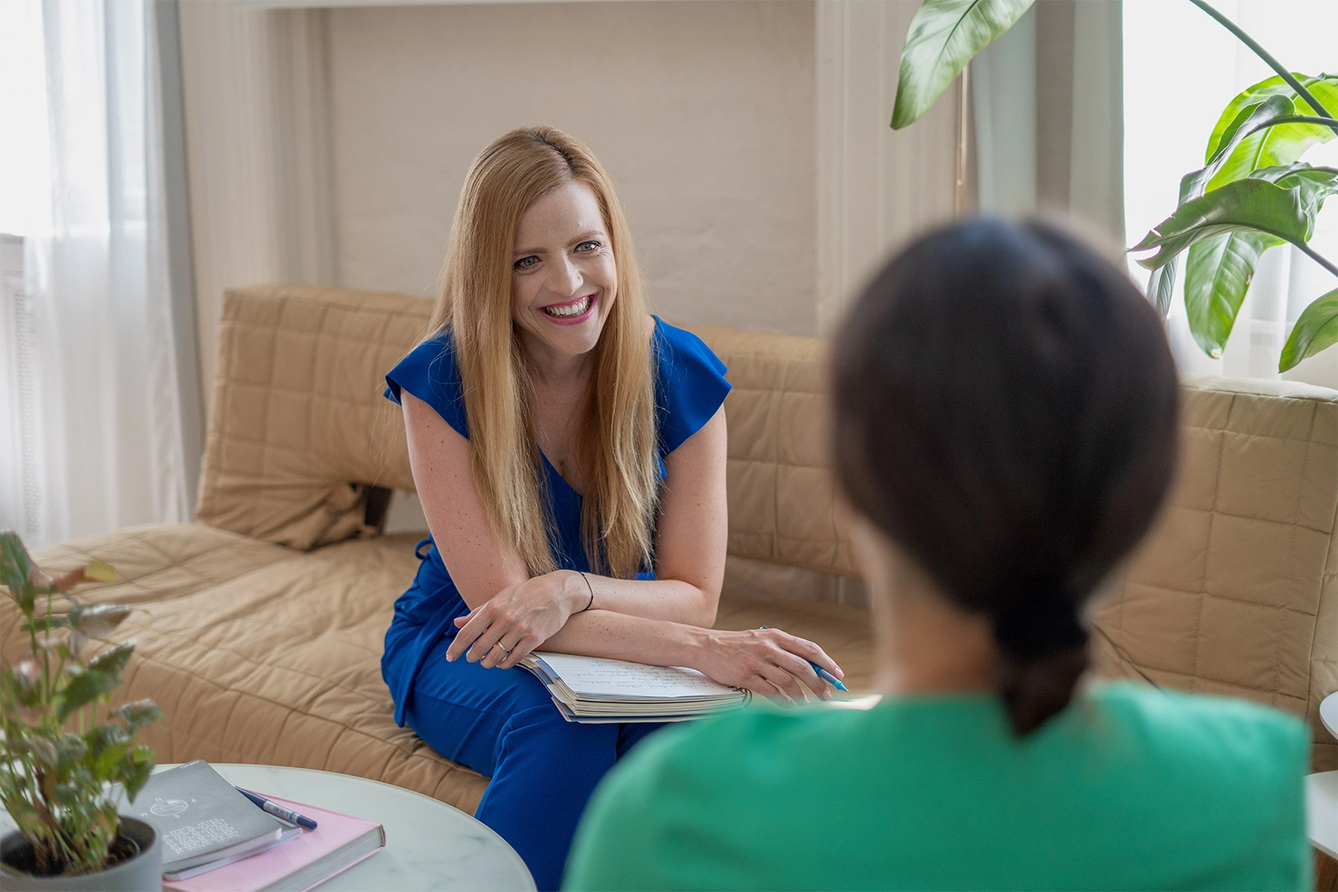
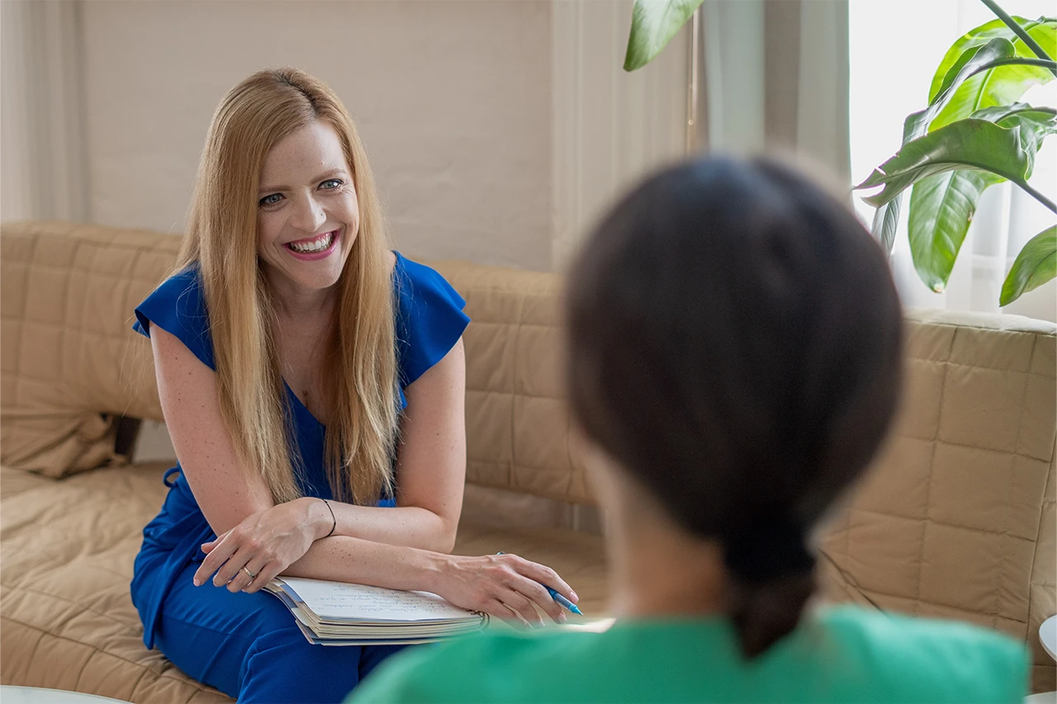
bigupdate-3

diff --git a/components/coachingReferences.jsx b/components/coachingReferences.jsx
@@ -41,19 +41,19 @@ export default function Coachingreferences() {
               }}
           >
             <SwiperSlide>
-              <Coachingreferencetile image={'/referenciak/bencze-mariann.webp'} name={'Bencze Mariann'} from={'Head of Culture, Engagement and DEIB, Adverity (Bécs, Ausztria)'} comment={'Éva nemcsak magasan képzett szakember, de a nyitottság, érzelmi intelligencia és empatikus hozzáállás kombinációjával is rendelkezik. Az általa teremtett biztonságos és elfogadó légkör lehetővé tette számomra, hogy szabadon felfedezzem gondolataimat, félelmeimet és törekvéseimet.Úgy érzem, hogy Éva hatása messze túlmutat a coaching keretein. Őszinte szenvedélye mások támogatása iránt igazán különlegessé teszi: veleszületett képessége van ügyfelei motiválására, inspirálására és önbizalmuk erősítésére.'}/>
+              <Coachingreferencetile image={'/referenciak/bencze-mariann.webp'} name={'Bencze Mariann'} from={'Head of Culture, Engagement and DEIB, Adverity (Bécs, Ausztria)'} comment={'<p>Éva nemcsak magasan képzett szakember, de a nyitottság, érzelmi intelligencia és empatikus hozzáállás kombinációjával is rendelkezik. Az általa teremtett biztonságos és elfogadó légkör lehetővé tette számomra, hogy szabadon felfedezzem gondolataimat, félelmeimet és törekvéseimet.</p><p>Úgy érzem, hogy Éva hatása messze túlmutat a coaching keretein. Őszinte szenvedélye mások támogatása iránt igazán különlegessé teszi: veleszületett képessége van ügyfelei motiválására, inspirálására és önbizalmuk erősítésére.</p>'}/>
             </SwiperSlide>
             <SwiperSlide>
-              <Coachingreferencetile image={'/referenciak/kiss-imre.webp'} name={'Kiss Imre'} from={'Consumer Insights Manager, Kia Europe (Frankfurt, Németország)'} comment={'Szakmai kihívásokkal kerestem meg Évát, és ő beleegyezett, hogy együtt dolgozzon velem ezeken. Hozzáállását az én igényeimre szabta, és úgy hámozta le a problémáim különböző rétegeit, mint a hagymát. Amit először a fő problémáimnak tartottam, azokról jól irányzott kérdései által kiderült, hogy egy mélyebb dolog tünetei csupán.Összességében csak ajánlani tudom az Évával való együttműködést. Empatikus, profi, intelligens és nagyon leegyszerűsítve remek beszélgetőpartner.'}/>
+              <Coachingreferencetile image={'/referenciak/kiss-imre.webp'} name={'Kiss Imre'} from={'Consumer Insights Manager, Kia Europe (Frankfurt, Németország)'} comment={'<p>Szakmai kihívásokkal kerestem meg Évát, és ő beleegyezett, hogy együtt dolgozzon velem ezeken. Hozzáállását az én igényeimre szabta, és úgy hámozta le a problémáim különböző rétegeit, mint a hagymát. Amit először a fő problémáimnak tartottam, azokról jól irányzott kérdései által kiderült, hogy egy mélyebb dolog tünetei csupán.</p><p>Összességében csak ajánlani tudom az Évával való együttműködést. Empatikus, profi, intelligens és nagyon leegyszerűsítve remek beszélgetőpartner.</p>'}/>
             </SwiperSlide>
             <SwiperSlide>
-              <Coachingreferencetile image={'/referenciak/pecsi-anita.webp'} name={'Pécsi Anita'} from={'Digitális Termékmenedzser, Paramount Group'} comment={'A coaching folyamat kezdetekor elakadva éreztem magam a karrieremben, alacsony volt a szakmai önbizalmam, nem tudtam, merre és hogyan haladjak tovább. Ehhez képest a közös munkánk végére, Éva sok gondolatébresztő kérdésének és az alkalmak közötti “házi feladatoknak” köszönhetően rengeteg új ötletem született. Visszanyertem a szakmai magabiztosságom, melynek segítségével képes vagyok tovább alakítani a karrieremet, és ezért végtelenül hálás vagyok.'}/>
+              <Coachingreferencetile image={'/referenciak/pecsi-anita.webp'} name={'Pécsi Anita'} from={'Digitális Termékmenedzser, Paramount Group'} comment={'<p>A coaching folyamat kezdetekor elakadva éreztem magam a karrieremben, alacsony volt a szakmai önbizalmam, nem tudtam, merre és hogyan haladjak tovább. </p><p>Ehhez képest a közös munkánk végére, Éva sok gondolatébresztő kérdésének és az alkalmak közötti “házi feladatoknak” köszönhetően rengeteg új ötletem született. </p><p>Visszanyertem a szakmai magabiztosságom, melynek segítségével képes vagyok tovább alakítani a karrieremet, és ezért végtelenül hálás vagyok.</p>'}/>
             </SwiperSlide>
             <SwiperSlide>
               <Coachingreferencetile image={'/referenciak/szabo-domokos.webp'} name={'Szabó Domokos'} from={'Group Wholesale Director, Vanguards - divatipari cégcsoport'} comment={'Évával gyorsan egymásra hangolódtunk és gördülékeny volt a közös munka. Az tetszett legjobban, hogy a kitűzött célok megoldását segített végig szem előtt tartani és proaktívan visszamérni, ezáltal fontos felismerésekre jutottam a saját szükségleteimmel kapcsolatban.'}/>
             </SwiperSlide>
             <SwiperSlide>
-              <Coachingreferencetile image={'/referenciak/varga-zsuzsa.webp'} name={'Varga Zsuzsa'} from={'Business Development Director CEE, Terrytory Influence (Bertelsmann Group)'} comment={'Éva életem egy nagyon nehéz időszakában lett a coach-om, amikor sokat tudott segíteni stabil pontjaim megtalálásában. Jó meglátásai és alapos kérdései segítettek új megvilágításba helyezni a dolgokat és új nézőpontokat találni. Gyorsan megértette az üzleti és szakmai helyzetemet, és segített a gyakorlati cselekvési pontok megfogalmazásában. Mindez a szakértelem párosul fantasztikus, kedves és nagyon támogató személyiségével. Azóta is hálás vagyok neki a folyamatokért, amiket elindított bennem.'}/>
+              <Coachingreferencetile image={'/referenciak/varga-zsuzsa.webp'} name={'Varga Zsuzsa'} from={'Business Development Director CEE, Terrytory Influence (Bertelsmann Group)'} comment={'<p>Éva életem egy nagyon nehéz időszakában lett a coach-om, amikor sokat tudott segíteni stabil pontjaim megtalálásában. Jó meglátásai és alapos kérdései segítettek új megvilágításba helyezni a dolgokat és új nézőpontokat találni. </p><p>Gyorsan megértette az üzleti és szakmai helyzetemet, és segített a gyakorlati cselekvési pontok megfogalmazásában. Mindez a szakértelem párosul fantasztikus, kedves és nagyon támogató személyiségével. Azóta is hálás vagyok neki a folyamatokért, amiket elindított bennem.</p>'}/>
             </SwiperSlide>
             <SwiperSlide>
               <Coachingreferencetile image={'/referenciak/sopov-kata.webp'} name={'Sopov Kata'} from={'Innovációs menedzser, Adaptive Media'} comment={'Évával nagyon hamar megtaláltuk a közös hangot. Rögtön értette, amiről beszélek, nem voltak fölösleges körök. Sokat segített abban, hogy ne csak a konkrét problémákkal foglalkozzak, hanem a gondolkodásmódomat is meg tudjam változtatni.'}/>
@@ -62,10 +62,10 @@ export default function Coachingreferences() {
               <Coachingreferencetile image={'/referenciak/jankovics-diana.webp'} name={'Jankovics Diána'} from={'Key Account Manager, Lindt Magyarország'} comment={'Élveztem Évával a közös munkát. Figyelmes és hatékony kérdésekkel segített a saját céljaim megfogalmazásában. Mindig felkészült és a közösen kitűzött célt tartotta szem előtt. Szívesen vettem részt minden alkalmon, mert kellemes légkör várt rám.'}/>
             </SwiperSlide>
             <SwiperSlide>
-              <Coachingreferencetile image={'/referenciak/somkovi-bernadett.webp'} name={'Somkövi Bernadett'} from={'nyelvtanár, tréner'} comment={'Szerettem, hogy Éva teret adott a kusza problémagombolyagom gomolygásának, hogy aztán egy jól irányzott kérdés hatására egyértelművé váljon számomra a főszál és a saját megoldásom felé indulhassak el. Jólesett, hogy biztonságban érezhettem magam mellette, hogy felelősségben tartott és hogy szakmai és emberi tudott lenni egyszerre.'}/>
+              <Coachingreferencetile image={'/referenciak/somkovi-bernadett.webp'} name={'Somkövi Bernadett'} from={'nyelvtanár, tréner'} comment={'<p>Szerettem, hogy Éva teret adott a kusza problémagombolyagom gomolygásának, hogy aztán egy jól irányzott kérdés hatására egyértelművé váljon számomra a főszál és a saját megoldásom felé indulhassak el. </p><p>Jólesett, hogy biztonságban érezhettem magam mellette, hogy felelősségben tartott és hogy szakmai és emberi tudott lenni egyszerre.</p>'}/>
             </SwiperSlide>
             <SwiperSlide>
-              <Coachingreferencetile image={'/referenciak/blankprofile.webp'} name={'Dobos Kata'} from={'szakfordító és tolmács'} comment={'Évával öröm volt együttműködni. Minden alkalomra felkészülten érkezett, együtt mértük fel és határoztuk meg a fejlesztendő területeimet, melyeket segített fókuszba helyezni és konkretizálni. Végig jó szakemberként funkcionált, semleges tudott maradni és kívülről szemlélni a dolgokat, sosem "okoskodott bele" semmibe, nem próbálta megmondani a "tutit", hanem mellettem állva, velem együtt haladva segített eljutni a cél felé. Jó kérdéseket tett fel, melyek sokszor elgondolkodtattak, további elmélkedésre ösztönöztek, nekem is kellett dolgoznom magamon. Számomra mindig nagyon megnyugtató volt vele beszélgetni, megnyílhattam neki. Higgadt, empatikus személyisége és jó meglátásai miatt abszolút jó coach-nak tartom.'}/>
+              <Coachingreferencetile image={'/referenciak/blankprofile.webp'} name={'Dobos Kata'} from={'szakfordító és tolmács'} comment={'<p>Évával öröm volt együttműködni. Minden alkalomra felkészülten érkezett, együtt mértük fel és határoztuk meg a fejlesztendő területeimet, melyeket segített fókuszba helyezni és konkretizálni. </p><p>Végig jó szakemberként funkcionált, semleges tudott maradni és kívülről szemlélni a dolgokat, sosem "okoskodott bele" semmibe, nem próbálta megmondani a "tutit", hanem mellettem állva, velem együtt haladva segített eljutni a cél felé. </p><p>Jó kérdéseket tett fel, melyek sokszor elgondolkodtattak, további elmélkedésre ösztönöztek, nekem is kellett dolgoznom magamon. Számomra mindig nagyon megnyugtató volt vele beszélgetni, megnyílhattam neki. Higgadt, empatikus személyisége és jó meglátásai miatt abszolút jó coach-nak tartom.</p>'}/>
             </SwiperSlide>
           </Swiper>
         </div>

diff --git a/components/whattoexpect.jsx b/components/whattoexpect.jsx
@@ -8,6 +8,7 @@ import Image from "next/image";
 import Secondarybluebutton from "./ui/SecondaryBlueButton";
 import Primarygreenbuton from "./ui/primaryGreenButon";
 import { useRef } from "react";
+import { MdOutlineHorizontalRule } from "react-icons/md"
 
 export default function Whattoexpect() {
   const scrollRef = useRef(null);
@@ -40,7 +41,15 @@ export default function Whattoexpect() {
     <Regularcontainer bgcolor={"bg-gardient-to-b from-white to-transparent"}>
       <div className="relative flex flex-col gap-20">
         <div className="flex flex-col gap-16 w-full">
+        <div className="flex flex-col gap-4">
+          <h4
+            className="flex flex-nowrap items-center justify-center gap-2"
+          >
+            <MdOutlineHorizontalRule className="min-w-8 min-h-8" />
+            Hogyan dolgozom?
+          </h4>
           <h2 className="text-center z-10">Mire számíthatsz?</h2>
+          </div>
           <motion.div
             className="relative flex flex-col justify-end w-full h-[60vh] rounded-xl overflow-hidden "
             initial={{ y: -10, opacity: 0 }}
@@ -80,69 +89,63 @@ export default function Whattoexpect() {
           <h2 className="text-center">Közös munkánk során tehát:</h2>
           <div className="grid grid-cols-4 grid-rows-2 grid-flow-row gap-6" style={{ gridTemplateAreas: `"a a a a" "b b c c"`, gridAutoFlow: "dense" }}>
             <div className="flex flex-col justify-center relative align-middle py-4 pl-7 pr-4 bg-white  shadow-sm">
-              <div className="absolute flex flex-col items-center justify-center -top-3 -left-3 w-8 h-8 bg-[--aquamarine] rounded-full text-white">
-                1
+              <div className="absolute flex flex-col items-center justify-center top-1/2 -translate-y-1/2 -right-7 w-8 h-8">
+                <MdOutlineHorizontalRule className="min-w-8 min-h-8 text-[--aquamarine]" />
               </div>
               <p className="text-lg">
                 <b>Egyenrangú </b>partnerekként
               </p>
             </div>
             <div className="flex flex-col justify-center relative align-middle py-4 pl-7 pr-4 bg-white  shadow-sm">
-              <div className="absolute flex flex-col items-center justify-center -top-3 -left-3 w-8 h-8 bg-[--aquamarine] rounded-full text-white">
-                2
+            <div className="absolute flex flex-col items-center justify-center top-1/2 -translate-y-1/2 -right-7 w-8 h-8">
+                <MdOutlineHorizontalRule className="min-w-8 min-h-8 text-[--aquamarine]" />
               </div>
               <p className="text-lg">
-                azzal fogunk dolgozni, ami <b>számodra fontos</b>,
+                azzal fogunk dolgozni, ami <b>számodra fontos</b>.
               </p>
             </div>
             <div className="flex flex-col justify-center relative align-middle py-4 pl-7 pr-4 bg-white  shadow-sm">
-              <div className="absolute flex flex-col items-center justify-center -top-3 -left-3 w-8 h-8 bg-[--aquamarine] rounded-full text-white">
-                3
+            <div className="absolute flex flex-col items-center justify-center top-1/2 -translate-y-1/2 -right-7 w-8 h-8">
+                <MdOutlineHorizontalRule className="min-w-8 min-h-8 text-[--aquamarine]" />
               </div>
               <p className="text-lg">
-                <b>te felelsz</b> a folyamat során levont tanulságokért és
-                céljaid megvalósításáért,
+                <b>Te felelsz</b> a folyamat során levont tanulságokért és
+                céljaid megvalósításáért.
               </p>
             </div>
             <div className="flex flex-col justify-center relative align-middle py-4 pl-7 pr-4 bg-white  shadow-sm">
-              <div className="absolute flex flex-col items-center justify-center -top-3 -left-3 w-8 h-8 bg-[--aquamarine] rounded-full text-white">
-                4
-              </div>
               <p className="text-lg">
-                <b>én felelek</b> a coaching technikák alkalmazásáért és az
-                ülések strukturálásáért,
+                <b>Én felelek</b> a coaching technikák alkalmazásáért és az
+                ülések strukturálásáért.
               </p>
             </div>
             <div className="flex flex-col justify-center relative align-middle py-4 pl-7 pr-4 bg-white  shadow-sm">
-              <div className="absolute flex flex-col items-center justify-center -top-3 -left-3 w-8 h-8 bg-[--aquamarine] rounded-full text-white">
-                5
-              </div>
               <p className="text-lg">
-                <b>nem lesz részed</b> tanácsadásban (tapasztalat megosztásban
-                is csak kivételes esetben),
+              <div className="absolute flex flex-col items-center justify-center top-1/2 -translate-y-1/2 -right-7 w-8 h-8">
+                <MdOutlineHorizontalRule className="min-w-8 min-h-8 text-[--aquamarine]" />
+              </div>
+                <b>Nem lesz részed</b> tanácsadásban (tapasztalat megosztásban
+                is csak kivételes esetben).
               </p>
             </div>
             <div className="flex flex-col justify-center relative align-middle py-4 pl-7 pr-4 bg-white  shadow-sm">
-              <div className="absolute flex flex-col items-center justify-center -top-3 -left-3 w-8 h-8 bg-[--aquamarine] rounded-full text-white">
-                6
+            <div className="absolute flex flex-col items-center justify-center top-1/2 -translate-y-1/2 -right-7 w-8 h-8">
+                <MdOutlineHorizontalRule className="min-w-8 min-h-8 text-[--aquamarine]" />
               </div>
               <p className="text-lg">
-                <b>jövőorientáltan</b>, azaz nem a “miérteken”, hanem a
-                “hogyanokon” fogunk dolgozni,
+                <b>Jövőorientáltan</b>, azaz nem a “miérteken”, hanem a
+                “hogyanokon” fogunk dolgozni.
               </p>
             </div>
             <div className="flex flex-col justify-center relative align-middle py-4 pl-7 pr-4 bg-white  shadow-sm">
-              <div className="absolute flex flex-col items-center justify-center -top-3 -left-3 w-8 h-8 bg-[--aquamarine] rounded-full text-white">
-                7
-              </div>
               <p className="text-lg">
-                végig <b>mérhető célok</b> mentén.
+                Végig <b>mérhető célok</b> mentén.
               </p>
             </div>
           </div>
         </div>
 
-        <div className="relative flex flex-col justify-center w-1/2 m-auto gap-16">
+        <div className="relative flex flex-col justify- m-auto gap-16 ">
           <div className="absolute w-1 h-full bg-white top-32 left-1/2 -translate-x-1/2"></div>
           <h2 className="text-center">Hogyan zajlik a folyamat?</h2>
 
@@ -156,7 +159,7 @@ export default function Whattoexpect() {
               style={{ opacity: scrollYProgress1 }}
               transition={{ times: 2 }}
               viewport={{ scrollRef }}
-              className="sticky top-1/3 text-center flex flex-col gap-16 bg-[--white] px-8 pb-8"
+              className="sticky top-1/3 flex flex-col gap-16 bg-[--white] px-8 pb-8 w-2/5 mr-4"
             >
               <h3 className="p-4 bg-[--dukeblue] text-white shadow-sm w-fit m-auto ">
                 0. beszélgetés
@@ -186,7 +189,7 @@ export default function Whattoexpect() {
               style={{ opacity: scrollYProgress2 }}
               transition={{ times: 2 }}
               viewport={{ scrollRef2 }}
-              className="sticky top-1/3 text-center flex flex-col gap-16 bg-[--white] px-8 pb-8"
+              className="sticky top-1/3 flex flex-col gap-16 bg-[--white] px-8 pb-8 w-2/5 self-end  ml-4"
             >
               <h3 className="p-4 bg-[--dukeblue] text-white shadow-sm w-fit m-auto ">
                 Szerződéskötés
@@ -208,7 +211,7 @@ export default function Whattoexpect() {
               style={{ opacity: scrollYProgress3 }}
               transition={{ times: 2 }}
               viewport={{ scrollRef3 }}
-              className="sticky top-1/3 text-center flex flex-col gap-16 bg-[--white] px-8 pb-8"
+              className="sticky top-1/3 flex flex-col gap-16 bg-[--white] px-8 pb-8 w-2/5 mr-4"
             >
               <h3 className="p-4 bg-[--dukeblue] text-white shadow-sm w-fit m-auto ">
               A Coaching folyamata
@@ -232,7 +235,7 @@ export default function Whattoexpect() {
               style={{ opacity: scrollYProgress4 }}
               transition={{ times: 2 }}
               viewport={{ scrollRef4 }}
-              className="sticky top-1/3 text-center flex flex-col items-center gap-16 bg-[--white] px-8 pb-8"
+              className="sticky top-1/3 flex flex-col gap-16 bg-[--white] px-8 pb-8 w-2/5 self-end ml-4"
             >
               <h3 className="p-4 bg-[--dukeblue] text-white shadow-sm w-fit m-auto ">
                 Utánkövetés
@@ -242,7 +245,7 @@ export default function Whattoexpect() {
                 utánkövető alkalmak beiktatását, hogy segítségedre lehessek a
                 változások végrehajtásánál is.
               </p>
-              <Primarygreenbuton text={'Kezdjünk bele'} link={'/'} classname={'m-auto'}/>
+              <Primarygreenbuton text={'Kezdjünk bele'} link={'/'} classname={'m-auto self-center'}/>
             </motion.div>
           </div>
         </div>

diff --git a/components/aboutme.jsx b/components/aboutme.jsx
@@ -2,6 +2,7 @@
 
 import Regularcontainer from "./ui/regularcontainer";
 import Image from "next/image";
+import Link from "next/link";
 import { MdOutlineHorizontalRule } from "react-icons/md";
 import { motion } from "framer-motion";
 import Primarygreenbuton from "./ui/primaryGreenButon";
@@ -12,7 +13,7 @@ export default function Aboutme() {
     <Regularcontainer bgcolor={'bg-white'}>
         <div className="flex lg:flex-row flex-col gap-8 lg:gap-32">
             <motion.div 
-            className="relative lg:w-1/2 w-full h-[60vh] rounded-xl overflow-hidden"
+            className="relative lg:w-1/2 w-full min-h-[60vh] rounded-xl overflow-hidden"
             initial={{ x: -100, opacity: 0 }}
             whileInView={{ x: 0, opacity: 1 }}
             transition={{ duration: 0.8, type: "spring", bounce: 0.4}}
@@ -36,7 +37,7 @@ export default function Aboutme() {
                     whileInView={{ y: 0, opacity: 1 }}
                     transition={{ duration: 0.8, type: "spring", bounce: 0.4}}
                     >
-                        <span className="relative underlined-p">Perlay Éva</span> vagyok,
+                        <span className="relative underlined-p">Perlay Éva</span> vagyok.
                     </motion.h2>
                 </div>
                 <motion.div 
@@ -52,35 +53,31 @@ export default function Aboutme() {
                     Fókuszterületeim az önazonos munkavégzés és kommunikáció, a mentális egészségmegőrzés, a munkahelyi egyenlőség, a befogadó vezetés és az élhető szervezeti kultúra kialakítása.
                     </p>
                     <p>
-                    Olvass bele a témáimba: <Secondarybluebutton text={'Témáim'} link={'/'} />
+                    Olvass bele a <Secondarybluebutton text={'témáimba'} link={'/'} />
                     </p>
                     <p>
-                    Ha kíváncsi vagy, miért lehetek számodra hiteles partner, kattints ide: <Secondarybluebutton text={'Miért válassz?'} link={'/'} />
+                    Ha kíváncsi vagy, miért lehetek számodra hiteles partner, <Secondarybluebutton text={'kattints ide'} link={'/'} />
                     </p>
                 </motion.div> 
             </div>
         </div>
-        <div className="flex flex-row justify-evenly pt-32"> 
-            <div className="flex flex-col items-center justify-evenly w-full border-r border-neutral-400 pr-8 text-center gap-2">
+        <div className="flex flex-row justify-evenly pt-32">
+            <Link href={'/multinacionalis-es-sales-hatterem'} className="flex flex-col items-center justify-evenly w-full border-r border-neutral-400 pr-8 text-center gap-2 hover:bg-neutral-50 py-4">
                 <h3>15+ év</h3>
                 <p>nagyvállalati tapasztalat</p>
-                <Secondarybluebutton text={'Hol tartok a coach szakmai utamon?'} link={'/'} classname={'my-4'}/>
-            </div>
-            <div className="flex flex-col items-center justify-evenly w-full border-r border-neutral-400 px-8 text-center  gap-2">
+            </Link>
+            <Link href={'/az-egyenlito-alapitvanynal-vegzett-munkam'} className="flex flex-col items-center justify-evenly w-full border-r border-neutral-400 px-8 text-center  gap-2 hover:bg-neutral-50 py-4">
                 <h3>Egyenlítő alapítvány</h3>
                 <p>partnerkapcsolati vezető és trainer</p>
-                <Secondarybluebutton text={'Az Egyenlítő Alapítványnál végzett munkám'} link={'/'} classname={'my-4'}/>
-            </div>
-            <div className="flex flex-col items-center justify-evenly w-full border-r border-neutral-400 px-8 text-center  gap-2">
+            </Link>
+            <Link href={'/hol-tartok-szakmai-utamon'} className="flex flex-col items-center justify-evenly w-full border-r border-neutral-400 px-8 text-center  gap-2 hover:bg-neutral-50 py-4">
                 <h3>Diplomás</h3>
                 <p>üzleti coach</p>
-                <Secondarybluebutton text={'Multinacionális marketing és sales hátterem'} link={'/'} classname={'my-4'}/>
-            </div>
-            <div className="flex flex-col items-center justify-evenly w-full pl-8 text-center  gap-2">
+            </Link>
+            <Link href={'/tanulmanyaim'} className="flex flex-col items-center justify-evenly w-full px-8 text-center  gap-2 hover:bg-neutral-50 py-4">
                 <p>képzésben lévő </p>
                 <h3>mentálhigiénés szakember</h3>
-                <Secondarybluebutton text={'Tanulmányaim'} link={'/'} classname={'my-4'} />
-            </div>
+            </Link>
         </div>
     </Regularcontainer>
   )

diff --git a/components/Ctaone.jsx b/components/Ctaone.jsx
@@ -16,20 +16,24 @@ export default function Ctaone() {
         >
           <div className="flex flex-col gap-4 justify-between w-2/3  p-8">
             <div className="flex flex-col gap-4">
-                <h2>Foglalj ingyenes 30 perces konzultációt</h2>
+                <h2>Foglalj ingyenes 30 perces konzultációt!</h2>
                 <p className="text-xl">Ha felkeltettem az érdeklődésedet és szívesen egyeztetnél a témádról, a coaching részleteiről, illetve bármilyen felmerülő kérdésedről, foglalj egy ingyenes, 30 perces konzultációt velem!</p>
             </div>
             <Primarybluebutton text={'Ingyenes konzultáció igénylés'} link={'/'}/>
           </div>
           <div className="relative w-1/3">
           <Image
-            src="/eva/linkedin2.webp"
+            src="/eva/maincta3.webp"
             width={500}
             height={300}
             alt="Éva ül"
-            className="absolute -bottom-0 right-1/3 h-[150%] w-auto"
+            className="absolute -bottom-0 z-20"
           />
+          <div className="w-full h-full relative overflow-hidden">
+            <div className="absolute -bottom-1/2 left-2/3 -translate-x-1/2 bg-[--dukeblue] blur-3xl w-1/2 h-full z-10 opacity-30"></div>
           </div>
+          </div>
+          
         </motion.div>
     </Regularcontainer>
   )

diff --git a/components/ui/quote.jsx b/components/ui/quote.jsx
@@ -6,7 +6,7 @@ export default function Quote({ text, textcolor, width, textalign }) {
   return (
     <motion.p 
     id="quote"
-    className={`relative ${textcolor} ${width} ${textalign} text-xl bg-white bg-opacity-10 backdrop-blur-sm px-2 py-1 after:absolute after:-top-5 after:-left-3 after:content-['”'] after:text-8xl after:font-medium after:text-[--aquamarine] after:z-[-1] after:opacity-50`}
+    className={`relative ${textcolor} ${width} ${textalign} text-xl bg-white bg-opacity-10 backdrop-blur-sm px-2 py-1 after:absolute after:-top-5 after:-left-3 after:content-['”'] after:text-8xl after:font-medium after:text-[--aquamarine] after:z-[-1] after:opacity-50 before:absolute before:-bottom-17 before:-right-3 before:content-['“'] before:text-8xl before:font-medium before:text-[--aquamarine] before:z-[-1] before:opacity-50`}
     initial={{ y: -20, opacity: 0 }}
     whileInView={{ y: 0, opacity: 1 }}
     transition={{ duration: 0.8, type: "spring", bounce: 0.4}}

diff --git a/components/ui/footer.jsx b/components/ui/footer.jsx
@@ -8,10 +8,10 @@ export default function Footer() {
   return (
     <Regularcontainer bgcolor={"bg-[--aquamarine]"}>
       <div className="flex flex-col gap-8 w-full">
-        <div className="flex lg:flex-row flex-col w-full justify-between">
-          <div className="flex flex-col gap-8 justify-center items-center">
+        <div className="flex lg:flex-row flex-col gap-16 w-full justify-center items-start">
+          <div className="flex flex-col gap-8 justify-center ">
             <Image
-              src={"/logo/logo-gardient-1-coaching.svg"}
+              src={"/logo/logo-black-coaching.svg"}
               width={200}
               height={500}
               alt={"footer logo"}

diff --git a/components/ui/bgContainer.jsx b/components/ui/bgContainer.jsx
@@ -3,7 +3,7 @@ import Image from "next/image"
 export default function Bgcontainer({children, bgimage, height, bgopacity, bgcolor, blendmode}) {
   return (
     <section className={`relative flex flex-col justify-center items-center py-20 px-2 ${height} `}>
-        <Image src={bgimage} fill style={{ objectFit: 'cover', objectPosition: '25% 35%' }}/>
+        <Image src={bgimage} fill style={{ objectFit: 'cover', objectPosition: '100% 10%' }}/>
         <div className={`absolute w-full h-full ${bgcolor} ${bgopacity} ${blendmode}`}></div>
         <div className='container'>
             {children}

diff --git a/components/hero.jsx b/components/hero.jsx
@@ -9,7 +9,7 @@ import Quote from "./ui/quote"
 export default function Hero() {
   return (
     <Bgcontainer bgimage={'/eva/beszelgeto.webp'} height={'min-h-[100vh]'} bgopacity={'bg-opacity-40'} bgcolor={'bg-black'} blendmode={'mix-blend-darken'}>
-    <div className='relative flex flex-col items-center gap-8'>
+    <div className='relative flex flex-col justify-end items-center gap-8'>
         <div className="flex flex-col w-1/2">
           <motion.h1 
           className="text-center text-white drop-shadow-lg "

diff --git a/components/Ctatwo.jsx b/components/Ctatwo.jsx
@@ -41,7 +41,7 @@ export default function Ctatwo() {
               <strong>ingyenes, 30 perces konzultációt!</strong>
             </p>
           </div>
-          <Primarybluebutton text={"Ingyenes konzultáció igénylés"} link={"/"} />
+          <Primarybluebutton text={"Ingyenes konzultáció igénylésö"} link={"/"} />
         </div>
       </motion.div>
     </Regularcontainer>

diff --git a/components/ui/coachingReferenceTile.jsx b/components/ui/coachingReferenceTile.jsx
@@ -22,7 +22,10 @@ export default function Coachingreferencetile({ image, name, from, comment }) {
         <h3>{name}</h3>
         <p className="italic text-sm">{from}</p>
       </div>
-      <p className="text-sm">{comment}</p>
+      <p
+        className="flex flex-col gap-3 text-sm"
+        dangerouslySetInnerHTML={{ __html: comment }}
+      />
     </motion.div>
   );
 }

diff --git a/components/linkedin.jsx b/components/linkedin.jsx
@@ -35,7 +35,7 @@ export default function Linkedin() {
               fill
               style={{ objectFit: "cover", objectPosition: "top" }}
               alt="Éva ül"
-              className="w-full rounded-2xl"
+              className="w-full rounded-xl"
             />
             <div className="absolute top-4 lg:top-[50px] -right-4">
               <motion.p

diff --git a/components/ui/contactus.jsx b/components/ui/contactus.jsx
@@ -30,6 +30,7 @@ export default function Contactus() {
               height={800}
               style={{ objectFit: "cover" }}
               alt="Írj nekem"
+              className="rounded-xl"
             />
           </div>
           <div className="flex flex-col items-center justify-center w-1/2 gap-8">
